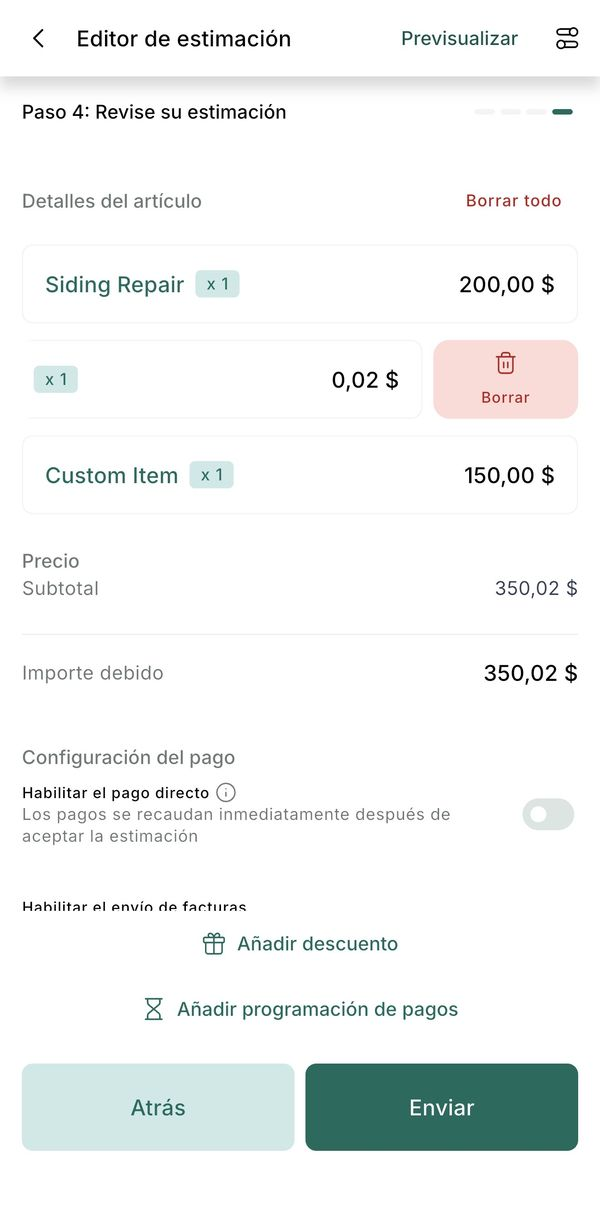
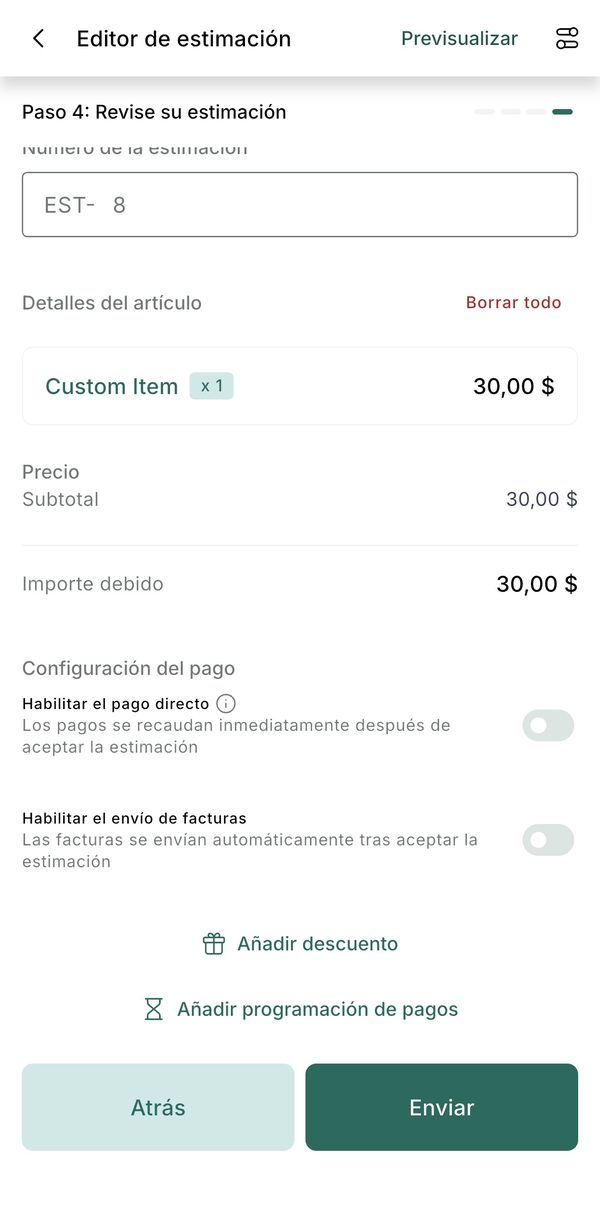
Presupuestos: captura del paso 4 con los dos interruptores apagados, pantalla Actualizar Producto para nombrar el concepto y guardarlo, lista de productos con precios típicos de Austin
Claude-Session: https://claude.ai/code/session_014USD9SwovftM7d8EjeFDVE

diff --git a/presupuestos.html b/presupuestos.html
@@ -95,7 +95,7 @@
             <p>Abre tu app y toca <strong>Aplicaciones</strong> (abajo a la derecha). En el grupo <strong>Ventas &amp; Operaciones</strong> hay tres botones:</p>
             <ul class="icon-list">
               <li><strong>Estimaciones:</strong> aquí haces y envías tus presupuestos.</li>
-              <li><strong>Productos:</strong> tu lista de servicios. Ya te cargamos los principales. Puedes cambiarlos o agregar más.</li>
+              <li><strong>Productos:</strong> tu lista de servicios con precios típicos de Austin. Ajústalos a los tuyos o agrega más.</li>
               <li><strong>POS:</strong> no lo uses (no cobra nada, no hay procesador).</li>
             </ul>
           </div>
@@ -122,11 +122,11 @@
       <!-- Productos -->
       <div class="content-section" id="productos">
         <h2>Tus productos: la lista de lo que cobras</h2>
-        <p>Un producto es una cosa que cobras: "Pintura interior", "Lavado a presión", "Reparación de siding". Con precio fijo, o en 0 si el precio cambia en cada trabajo (lo escribes en el momento). Puedes crearlos antes, o en el momento del presupuesto.</p>
+        <p>Ya te cargamos una lista con precios típicos de Austin. Ajústalos a los tuyos. Un producto es una cosa que cobras: "Pintura interior, por cuarto", "Lavado a presión", "Reparación de siding". Con precio fijo, o en 0 si el precio cambia en cada trabajo (lo escribes en el momento). Puedes crearlos antes, o en el momento del presupuesto.</p>
         <div class="shot-pair">
           <div>
             <img src="assets/app/facturas-02-productos-lista.jpg?v=1" alt="La lista de Productos de la app con los servicios cargados" class="app-shot">
-            <p class="shot-cap"><strong>Productos:</strong> tu lista. Toca <strong>+</strong> para agregar uno.</p>
+            <p class="shot-cap"><strong>Productos:</strong> tu lista (la de la foto es un ejemplo). Toca un producto para cambiarlo, o <strong>+</strong> para agregar uno.</p>
           </div>
           <div>
             <img src="assets/app/facturas-03-crear-articulo-1.jpg?v=1" alt="Crear artículo, paso 1: nombre del elemento, descripción e impuesto" class="app-shot">
@@ -165,41 +165,48 @@
         <div class="shot-pair">
           <div>
             <img src="assets/app/facturas-09-presupuesto-2-teclado.jpg?v=1" alt="Paso 2 del presupuesto, pestaña Teclado, con el monto en cero" class="app-shot">
-            <p class="shot-cap"><strong>Paso 2, pestaña Teclado:</strong> escribe el monto con el teclado. Toca <strong>Añadir información del elemento</strong> para ponerle nombre a esa línea. Con <strong>+</strong> agregas otra línea.</p>
+            <p class="shot-cap"><strong>Paso 2, pestaña Teclado:</strong> escribe el monto con el teclado. Luego toca <strong>Añadir información del elemento</strong>. Con <strong>+</strong> agregas otra línea.</p>
           </div>
           <div>
-            <img src="assets/app/facturas-08-presupuesto-2-catalogo.jpg?v=1" alt="Paso 2 del presupuesto, pestaña Catálogo, con la lista de productos para elegir" class="app-shot">
-            <p class="shot-cap"><strong>Paso 2, pestaña Catálogo:</strong> tus productos en lista. Toca los que van en este presupuesto, varios si quieres: el botón los cuenta ("Siguiente (3 elementos)"). Con los iconos de la derecha cambias entre lista y cuadrícula. ¿No existe? <strong>Crear artículo</strong> ahí mismo.</p>
+            <img src="assets/app/facturas-16-actualizar-producto.jpg?v=1" alt="La pantalla Actualizar Producto con nombre, cantidad, precio y el interruptor Guardar para usar más adelante" class="app-shot">
+            <p class="shot-cap">Se abre esta pantalla. <strong>Ponle nombre al concepto</strong> (si no, sale como "Custom Item"), revisa cantidad y precio. Si lo vas a cobrar seguido, activa <strong>Guardar para usar más adelante</strong>: queda en tu lista. Toca <strong>Actualizar</strong>.</p>
           </div>
         </div>
         <div class="shot-pair">
           <div>
-            <img src="assets/app/facturas-10-presupuesto-2-teclado-monto.jpg?v=1" alt="Paso 2 del presupuesto con 150 dólares escritos y el botón Siguiente" class="app-shot">
-            <p class="shot-cap"><strong>Siguiente</strong> te dice cuántas líneas llevas. Revisa que cada línea tenga nombre: una línea sin nombre sale como "Custom Item".</p>
+            <img src="assets/app/facturas-08-presupuesto-2-catalogo.jpg?v=2" alt="Paso 2 del presupuesto, pestaña Catálogo, con la lista de productos para elegir" class="app-shot">
+            <p class="shot-cap"><strong>Paso 2, pestaña Catálogo:</strong> tus productos en lista. Toca los que van en este presupuesto, varios si quieres: el botón los cuenta ("Siguiente (3 elementos)"). Con los iconos de la derecha cambias entre lista y cuadrícula. ¿No existe? <strong>Crear artículo</strong> ahí mismo.</p>
           </div>
+          <div>
+            <img src="assets/app/facturas-10-presupuesto-2-teclado-monto.jpg?v=1" alt="Paso 2 del presupuesto con 150 dólares escritos y el botón Siguiente" class="app-shot">
+            <p class="shot-cap"><strong>Siguiente</strong> te dice cuántas líneas llevas. Revisa que cada línea tenga nombre antes de seguir.</p>
+          </div>
+        </div>
+        <div class="shot-pair">
           <div>
             <img src="assets/app/facturas-11-presupuesto-3-notas.jpg?v=1" alt="Paso 3 del presupuesto: condiciones y notas, y adjuntos" class="app-shot">
             <p class="shot-cap"><strong>Paso 3:</strong> notas para el cliente (qué incluye, cuándo empiezas). Puedes adjuntar fotos o PDF. Todo opcional. Si el trabajo lleva impuesto, escribe en las notas: "Precios sin impuestos; se agregan al cobrar". Toca <strong>Revisar</strong>.</p>
           </div>
-        </div>
-        <div class="shot-pair">
           <div>
             <img src="assets/app/facturas-12-presupuesto-4-revisar.jpg?v=1" alt="Paso 4 del presupuesto: revisar las líneas antes de enviar" class="app-shot">
             <p class="shot-cap"><strong>Paso 4:</strong> revisa las líneas. Para quitar una, deslízala a la izquierda y toca <strong>Borrar</strong>. "Añadir descuento" si quieres. "Añadir programación de pagos" no lo toques.</p>
           </div>
-          <div>
-            <img src="assets/app/facturas-14-presupuesto-4-detalle.jpg?v=1" alt="Paso 4 del presupuesto: subtotal, importe debido y configuración del pago" class="app-shot">
-            <p class="shot-cap">Más abajo está <strong>Configuración del pago</strong>. Deja los dos interruptores apagados: <strong>Habilitar el pago directo</strong> y <strong>Habilitar el envío de facturas</strong>. Tú no cobras con tarjeta.</p>
-          </div>
         </div>
         <div class="shot-pair">
           <div>
-            <img src="assets/app/facturas-13-previsualizacion.jpg?v=1" alt="Previsualización del presupuesto con el logo y los datos del negocio" class="app-shot">
-            <p class="shot-cap"><strong>Previsualizar</strong> (arriba a la derecha) te muestra lo que verá el cliente: tu logo, tu nombre, tu teléfono, tu dirección, las líneas y el total.</p>
+            <img src="assets/app/facturas-14-presupuesto-4-detalle.jpg?v=2" alt="Paso 4 del presupuesto: configuración del pago con los dos interruptores apagados" class="app-shot">
+            <p class="shot-cap">Más abajo está <strong>Configuración del pago</strong>. <strong>Deja los dos apagados:</strong> "Habilitar el pago directo" y "Habilitar el envío de facturas". Tú no cobras con tarjeta.</p>
           </div>
           <div>
-            <img src="assets/app/facturas-15-enviar.jpg?v=1" alt="La pantalla Enviar estimación con las opciones correo electrónico y texto" class="app-shot">
-            <p class="shot-cap"><strong>Enviar:</strong> elige <strong>Texto</strong>, <strong>Correo electrónico</strong> o los dos. Listo. El presupuesto queda en tu lista con su estado.</p>
+            <img src="assets/app/facturas-13-previsualizacion.jpg?v=2" alt="Previsualización del presupuesto con el logo y los datos del negocio" class="app-shot">
+            <p class="shot-cap"><strong>Previsualizar</strong> (arriba a la derecha) te muestra lo que verá el cliente: tu logo, tu nombre, tu teléfono, tu dirección, las líneas y el total.</p>
+          </div>
+        </div>
+        <div class="shot-row">
+          <img src="assets/app/facturas-15-enviar.jpg?v=1" alt="La pantalla Enviar estimación con las opciones correo electrónico y texto" class="app-shot">
+          <div class="txt">
+            <p><strong>Enviar:</strong> elige <strong>Texto</strong>, <strong>Correo electrónico</strong> o los dos. Listo.</p>
+            <p>El presupuesto queda en tu lista de Estimaciones con su estado. Cuando el cliente lo acepte, te avisa el sistema.</p>
           </div>
         </div>
         <div class="benefit-box">
